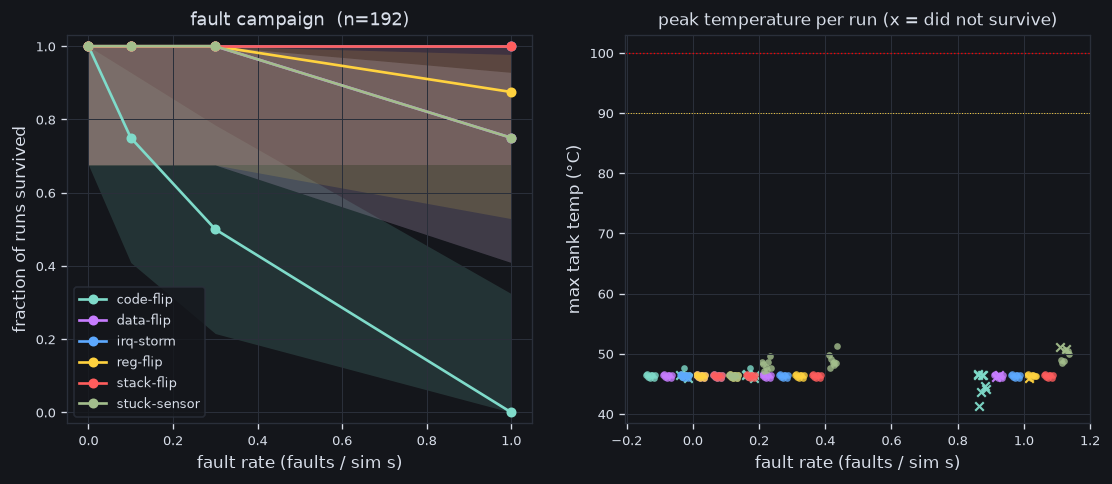
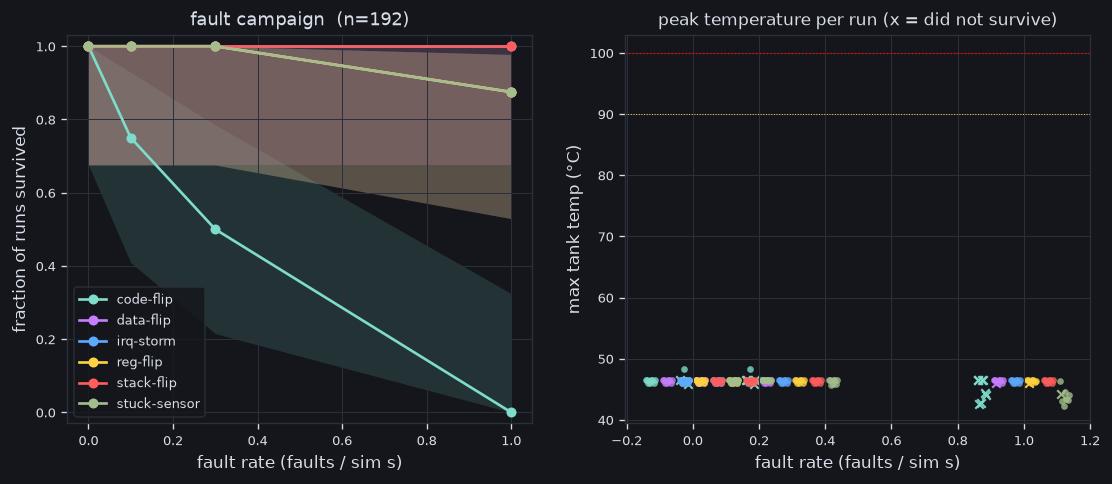
rtosaurus: campaigns use cpu.run fast path (2x); refresh results for current firmware

diff --git a/toys/rtosaurus/rtosaurus/machine.py b/toys/rtosaurus/rtosaurus/machine.py
@@ -32,7 +32,9 @@ class Machine:
         trace_limit: int = 200_000,
         safety: bool = True,
         hw_watchdog: bool = True,
+        account_tasks: bool = True,
     ):
+        self.account_tasks = account_tasks  # exact per-task cycles (gantt); off = ~2x faster
         self.hw_watchdog = hw_watchdog  # watchdog can reset a halted CPU
         self.image = image if image is not None else build_firmware()
         self.seed = seed
@@ -127,9 +129,8 @@ class Machine:
         while bus.cycles < end and not cpu.halted:
             # inner loop without sampling checks, up to the next sample point
             stop = min(end, self._next_sample)
-            if kc is None:
-                while bus.cycles < stop and not cpu.halted:
-                    bus.tick(cpu.step())
+            if kc is None or not self.account_tasks:
+                cpu.run(stop - bus.cycles)  # fast path: cpu ticks the bus itself
             else:  # also account cycles to the running task (exact gantt, no aliasing)
                 while bus.cycles < stop and not cpu.halted:
                     cur = mem[kc]

diff --git a/toys/rtosaurus/rtosaurus/faults.py b/toys/rtosaurus/rtosaurus/faults.py
@@ -169,7 +169,14 @@ def one_run(args: tuple) -> dict:
     kind, rate, seed, seconds, settle, safety, hw_wdog = args
     from rtosaurus.machine import Machine, build_firmware
 
-    m = Machine(build_firmware(), seed=seed, sample_cycles=2000, safety=safety, hw_watchdog=hw_wdog)
+    m = Machine(
+        build_firmware(),
+        seed=seed,
+        sample_cycles=2000,
+        safety=safety,
+        hw_watchdog=hw_wdog,
+        account_tasks=False,
+    )
     if rate > 0:
         m.hooks.append(FaultSchedule([Injector(kind, rate)], seed=seed, start=settle))
     m.run_seconds(seconds)

diff --git a/toys/rtosaurus/README.md b/toys/rtosaurus/README.md
@@ -59,13 +59,13 @@ A campaign runs every (fault kind, rate, seed) for 40 sim seconds with the
 setpoint at 45 °C, starting injections after 10 s. A run **survives** if the
 tank never boils, the CPU is running at the end, and the temperature is within
 5 °C of setpoint. Below: 8 seeds per cell, 576 runs per configuration, about
-1 minute of wall time each. The last two columns each turn off one defense.
+about 20 seconds of wall time each on 16 cores. The last two columns each turn off one defense.
 
 | fault (rate/s: 0.1 · 0.3 · 1) | full firmware | `--no-safety` (no sensor checks) | `--no-hw-watchdog` |
 |---|---|---|---|
-| stuck-sensor | 100 · 100 · 75 | **25 · 0 · 0** | 100 · 100 · 75 |
-| reg-flip | 100 · 100 · 88 | 100 · 100 · 88 | **100 · 75 · 50** |
-| data-flip | 100 · 100 · 75 | 100 · 100 · 75 | **75 · 75 · 62** |
+| stuck-sensor | 100 · 100 · 88 | **25 · 0 · 0** | 100 · 100 · 88 |
+| reg-flip | 100 · 100 · 88 | 100 · 88 · 88 | **100 · 62 · 38** |
+| data-flip | 100 · 100 · 88 | 100 · 100 · 88 | **75 · 75 · 62** |
 | stack-flip | 100 · 100 · 100 | 100 · 100 · 100 | 100 · 100 · 100 |
 | irq-storm | 100 · 100 · 100 | 100 · 100 · 100 | 100 · 100 · 100 |
 | code-flip | 75 · 50 · 0 | 75 · 62 · 0 | 75 · 50 · 0 |
@@ -82,7 +82,7 @@ Each defense covers a different fault class, and the campaign shows it:
   the vector table decodes as `HALT`. The board stops dead, sometimes with
   the heater latched at 255. The watchdog is independent hardware, so it
   still bites, resets the chip, and the firmware reboots and re-converges.
-  Turn it off and survival under register flips at 1/s drops from 88% to 50%.
+  Turn it off and survival under register flips at 1/s drops from 88% to 38%.
 - **Nothing saves you from corrupted code.** Program memory here is RAM and
   survives resets, like a bad flash cell. The board boots into broken code
   forever, and the watchdog can only keep restarting it. Real systems answer
